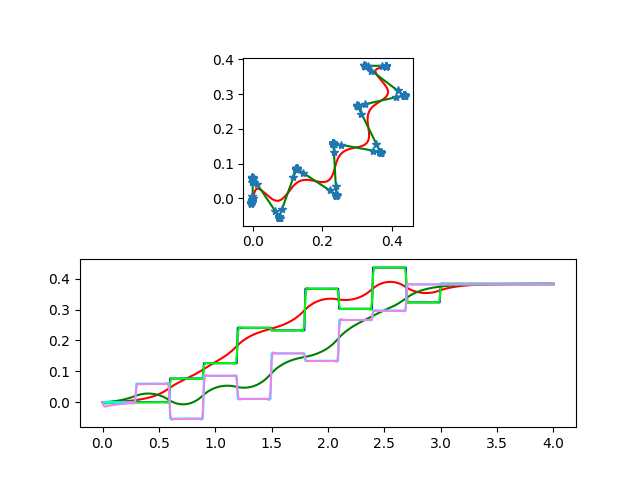
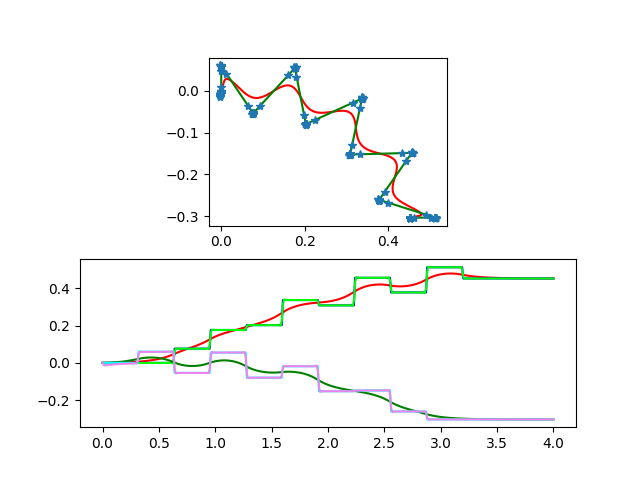
modified polynomial

diff --git a/preview_control_rot_polynomial_err.py b/preview_control_rot_polynomial_err.py
@@ -13,7 +13,13 @@ def drange(begin, end, step):
      yield n
      n += step
 
-dist = [0.6, 0.05, ( 3.14/2.0) ]
+def rad2deg(radian):
+    return radian * 180/pi
+
+def deg2rad(deg):
+    return deg * pi / 180
+
+dist = [0.6, 0.05, deg2rad(90) ]#( 3.14/2.0)
 max_step_x = 0.1
 max_step_y = 0.05
 max_step_w = 0.2;
@@ -61,7 +67,7 @@ foot.append(np.array([foot[i+2][0] + period, foot[i+2][1] + foot_fd[0], foot[i+2
 foot.append(np.array([100, 0, 0]))
 
 #foot = [[0, 0, 0], [0.6, 0.1, 0.06], [0.9, 0.2, -0.06], [1.2, 0.3, 0.06], [1.5, 0.4, -0.06],[1.8, 0.5, 0.06], [2.4, 0.6, -0.06], [3.0, 0.7, 0.0],[100,0,0]]
-forward_period = 1.0
+forward_period = 1.6
 calculate_period = 4.0
 
 dt = 0.01
@@ -197,8 +203,12 @@ coefficient_y = []
 poly_x = []
 poly_y = []
 poly_t = []
+count_time = []
 
-
+resultcom_x = []
+resultcom_y = []
+resultvel_x = []
+resultvel_y = []
 
 num = 0
 
@@ -226,8 +236,10 @@ for n_step in range(len(foot)):
         step_times.clear()
         step1_x.clear()
         step1_y.clear()
-print("")
-check_t = []
+
+counter = 0
+resultcom_x.append(0)
+resultcom_y.append(0)
 for d_num in range(len(poly_t)):
     p = poly_t[d_num].tolist()
     five = coefficient_x[d_num][0]
@@ -244,52 +256,60 @@ for d_num in range(len(poly_t)):
     one_y  = coefficient_y[d_num][4]
     zero_y = coefficient_y[d_num][5]
 
+    #print(five, four, three, two, one, zero, "\t", five_y, four_y, three_y, two_y, one_y, zero_y,)
+
     for count in range(len(p)):
         c_time = p[count]
-        coe_x = five * pow(c_time,5) + four * pow(c_time,4) + three * pow(c_time,3) + two * pow(c_time,2) + one * c_time + zero
-        coe_y = five_y * pow(c_time,5) + four_y * pow(c_time,4) + three_y * pow(c_time,3) + two_y * pow(c_time,2) + one_y * c_time + zero_y
+        com_x = five * pow(c_time,5) + four * pow(c_time,4) + three * pow(c_time,3) + two * pow(c_time,2) + one * c_time + zero
+        com_y = five_y * pow(c_time,5) + four_y * pow(c_time,4) + three_y * pow(c_time,3) + two_y * pow(c_time,2) + one_y * c_time + zero_y
+        vel_x = 5*five * pow(c_time,4) + 4*four * pow(c_time,3) + 3*three * pow(c_time,2) + 2*two * c_time + one
+        vel_y = 5*five_y * pow(c_time,4) + 4*four_y * pow(c_time,3) + 3*three_y * pow(c_time,2) + 2*two_y * c_time + one_y
 
-        print(c_time, coe_x, coe_y )
+        resultcom_x.append(com_x)
+        resultcom_y.append(com_y)
+        resultvel_x.append(vel_x)
+        resultvel_y.append(vel_y)
+        count_time.append(counter)
 
-    #p = coefficient_t[d_num].tolist()
-    #coefficient_x[d_num](p)
-    #coefficient_y[d_num](p)
+        counter = counter + 1
 
-"""
-plt.xlabel('x(m)')
-plt.ylabel('y(m)')
+
+av_x = []
+av_y = []
+
+for number in count_time:
+    count = number + 1
+    #print(count, times[count], x0[count], y0[count], resultcom_x[count], resultcom_y[count])#, resultvel_x[count], resultvel_y[count])
+    av_x.append(abs(x0[count] - resultcom_x[count]))
+    av_y.append(abs(y0[count] - resultcom_y[count]))
+
+print("x, y max error")
+print(max(av_x), max(av_y))
+
+
+plt.xlabel('x[m]')
+plt.ylabel('y[m]')
 plt.axes().set_aspect('equal')
 plt.plot(x0, y0, color="red",label="$COM$")
 plt.plot(x1, y1, color="green",label="$refZMP$")
 plt.plot(x2, y2, "*",label="$ZMP$")
 plt.legend(bbox_to_anchor=(0.0, 1.0), loc='upper left', borderaxespad=0, fontsize=10)
-plt.savefig('previewcontroller_walk_rot_COM.png')
+#plt.savefig('previewcontroller_walk_rot_COM.png')
 plt.show()
-
-plt.xlabel('t(s)')
-plt.ylabel('dist(m)')
+"""
+plt.xlabel('t[sec]')
+plt.ylabel('dist[m]')
 
 p = []
-list_draw_x = ['k','c','k','c','k','c','k','c','k','c','k']
-list_draw_y = ['r','y','r','y','r','y','r','y','r','y','r']
 for d_num in range(len(poly_t)):
     p = poly_t[d_num].tolist()
-    plt.plot(p, poly_x[d_num](p), color = list_draw_x[d_num])#color="red")
-    plt.plot(p, poly_y[d_num](p), color = list_draw_y[d_num])#color="green")
-plt.plot(p, poly_x[d_num](p), color="k",label="$POLY COM X$")
-plt.plot(p, poly_y[d_num](p), color="r",label="$POLY COM Y$")
-#plt.plot(x0, y0, color="red",label="$COM$")
-#plt.plot(x1, y1, color="green",label="$refZMP$")
-#plt.plot(x2, y2, "*",label="$ZMP$")
-#plt.legend(bbox_to_anchor=(0.0, 1.0), loc='upper left', borderaxespad=0, fontsize=10)
-#plt.savefig('PC_walk_rot_COM.png')
+    plt.plot(p, poly_x[d_num](p), color ="red")
+    plt.plot(p, poly_y[d_num](p), color ="darkblue")#color="red")
+plt.plot(p, poly_x[d_num](p), color="red",label="$POLY COM X$")
+plt.plot(p, poly_y[d_num](p), color="darkblue",label="$POLY COM Y$")
 plt.plot(times, x0, linestyle = "dotted",color="green",label="$COM X$")
-#plt.plot(times, x1, color="blue",label="$refZMPX$")
-#plt.plot(times, x2, color="lime",label="$ZMP X$")
-plt.plot(times, y0, linestyle = "dotted",color="blue",label="$COM Y$")
-#plt.plot(times, y1, color="cyan",label="$refZMPY$")
-#plt.plot(times, y2, color="violet",label="$ZMP Y$")
+plt.plot(times, y0, linestyle = "dotted",color="orangered",label="$COM Y$")
 plt.legend(bbox_to_anchor=(0.0, 1.0), loc='upper left', borderaxespad=0, fontsize=10)
-#plt.savefig('polynomial_COM_trajectory_txty.png')
+plt.savefig('polynomial_COM_trajectory_txty.png')
 plt.show()
 """

diff --git a/preview_control_rot_polynomial.py b/preview_control_rot_polynomial.py
@@ -242,14 +242,15 @@ plt.xlabel('t(s)')
 plt.ylabel('dist(m)')
 
 p = []
-list_draw_x = ['k','c','k','c','k','c','k','c','k','c','k']
-list_draw_y = ['r','y','r','y','r','y','r','y','r','y','r']
+
 for d_num in range(len(coefficient_t)):
     p = coefficient_t[d_num].tolist()
-    plt.plot(p, coefficient_x[d_num](p), color = list_draw_x[d_num])#color="red")
-    plt.plot(p, coefficient_y[d_num](p), color = list_draw_y[d_num])#color="green")
-plt.plot(p, coefficient_y[d_num](p), color="k",label="$POLY COM X$")
-plt.plot(p, coefficient_y[d_num](p), color="r",label="$POLY COM Y$")
+#    plt.plot(p, coefficient_x[d_num](p), color = list_draw_x[d_num])#color="red")
+#    plt.plot(p, coefficient_y[d_num](p), color = list_draw_y[d_num])#color="green")
+    plt.plot(p, coefficient_x[d_num](p), color ="red")
+    plt.plot(p, coefficient_y[d_num](p), color ="darkblue")#color="red")
+plt.plot(p, coefficient_y[d_num](p), color="red",label="$POLY COM X$")
+plt.plot(p, coefficient_y[d_num](p), color="darkblue",label="$POLY COM Y$")
 #plt.plot(x0, y0, color="red",label="$COM$")
 #plt.plot(x1, y1, color="green",label="$refZMP$")
 #plt.plot(x2, y2, "*",label="$ZMP$")
@@ -258,7 +259,7 @@ plt.plot(p, coefficient_y[d_num](p), color="r",label="$POLY COM Y$")
 plt.plot(times, x0, linestyle = "dotted",color="green",label="$COM X$")
 #plt.plot(times, x1, color="blue",label="$refZMPX$")
 #plt.plot(times, x2, color="lime",label="$ZMP X$")
-plt.plot(times, y0, linestyle = "dotted",color="blue",label="$COM Y$")
+plt.plot(times, y0, linestyle = "dotted",color="orangered",label="$COM Y$")
 #plt.plot(times, y1, color="cyan",label="$refZMPY$")
 #plt.plot(times, y2, color="violet",label="$ZMP Y$")
 plt.legend(bbox_to_anchor=(0.0, 1.0), loc='upper left', borderaxespad=0, fontsize=10)

diff --git a/preview_control_rot.py b/preview_control_rot.py
@@ -61,7 +61,7 @@ foot.append(np.array([foot[i+2][0] + period, foot[i+2][1] + foot_fd[0], foot[i+2
 foot.append(np.array([100, 0, 0]))
 
 #foot = [[0, 0, 0], [0.6, 0.1, 0.06], [0.9, 0.2, -0.06], [1.2, 0.3, 0.06], [1.5, 0.4, -0.06],[1.8, 0.5, 0.06], [2.4, 0.6, -0.06], [3.0, 0.7, 0.0],[100,0,0]]
-forward_period = 1.0
+forward_period = 1.6 #1.0予見時間
 calculate_period = 4.0
 
 dt = 0.01
@@ -188,22 +188,24 @@ r.plot(times, y2, color="violet",label="$ZMP Y$")
 plt.savefig('preview_control_rot.png')
 plt.show()
 """
-plt.xlabel('t(s)')
-plt.ylabel('dist(m)')
+
+plt.xlabel('t[sec]')
+plt.ylabel('dist[m]')
 plt.plot(times, x0, color="red",label="$COM X$")
-plt.plot(times, x1, color="blue",label="$refZMPX$")
+plt.plot(times, x1, linestyle = "dotted", color="blue",label="$refZMPX$")
 plt.plot(times, x2, color="lime",label="$ZMP X$")
 plt.plot(times, y0, color="green",label="$COM Y$")
-plt.plot(times, y1, color="cyan",label="$refZMPY$")
+plt.plot(times, y1, linestyle = "dotted", color="k",label="$refZMPY$")
 plt.plot(times, y2, color="violet",label="$ZMP Y$")
 plt.legend(bbox_to_anchor=(0.0, 1.0), loc='upper left', borderaxespad=0, fontsize=10)
 plt.savefig('preview_control_rot_tx_ty.png')
 plt.show()
+
 """
 plt.xlim(-0.1,0.5)
 plt.ylim(-0.10,0.5)
-plt.xlabel('x(m)')
-plt.ylabel('y(m)')
+plt.xlabel('x[m]')
+plt.ylabel('y[m]')
 plt.axes().set_aspect('equal')
 plt.plot(x0, y0, color="red",label="$COM$")
 plt.plot(x1, y1, color="green",label="$refZMP$")

diff --git a/preview_control.py b/preview_control.py
@@ -15,7 +15,7 @@ def drange(begin, end, step):
 
 
 foot = [[0, 0, 0], [0.6, 0.1, 0.06], [0.9, 0.2, -0.06], [1.2, 0.3, 0.06], [1.5, 0.4, -0.06],[1.8, 0.5, 0.06], [2.4, 0.6, -0.06], [3.0, 0.7, 0.0],[100,0,0]]
-forward_period = 1.0
+forward_period = 1.6
 calculate_period = 4.0
 
 dt = 0.01
